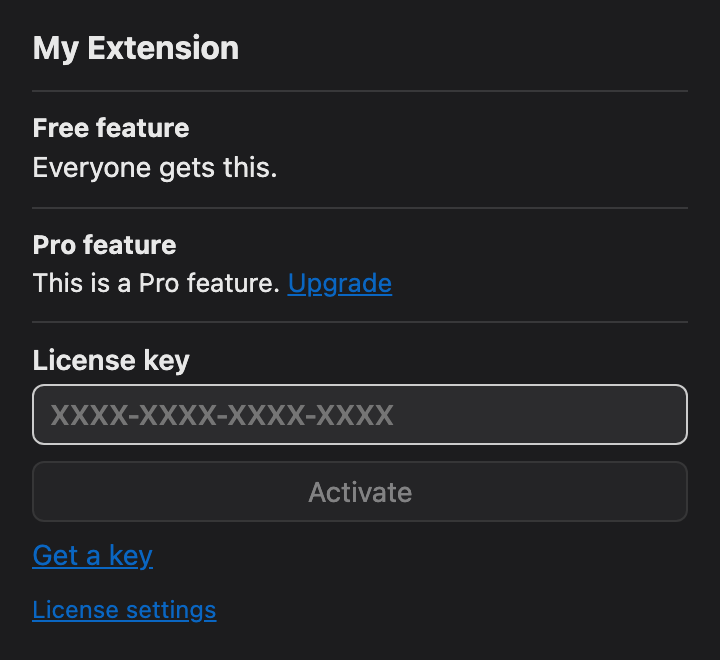
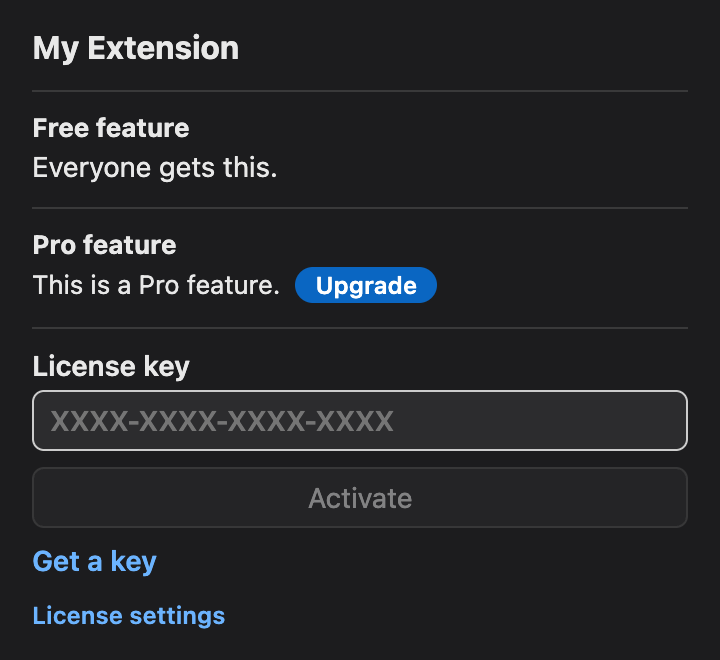
Fixes from review: styled popup links, readable Framer screenshots, full-width pricing, no guide breadcrumb on /thanks/, current license prices in two guides

diff --git a/assets/site.css b/assets/site.css
@@ -131,7 +131,7 @@ code, pre { font-family: "JetBrains Mono", ui-monospace, "SF Mono", Menlo, Conso
 .note { margin-top: 28px; color: var(--muted); max-width: 46em; }
 
 /* Pricing */
-.plans { display: grid; grid-template-columns: 1fr 1fr; gap: 24px; max-width: 880px; }
+.plans { display: grid; grid-template-columns: 1fr 1fr; gap: 24px; }
 .plan { background: var(--surface); border: 1px solid var(--line); border-radius: 18px; padding: 32px; display: flex; flex-direction: column; }
 .plan-pro { border: 2px solid var(--accent); box-shadow: var(--shadow); }
 .plan h3 { font-size: 1.2rem; margin: 0; }

diff --git a/_layouts/default.html b/_layouts/default.html
@@ -40,7 +40,7 @@
 
 <main>
   <article class="article">
-    <p class="crumbs"><a href="/">Home</a> / <a href="/#guides">Guides</a></p>
+    {% if page.url contains '/guides/' %}<p class="crumbs"><a href="/">Home</a> / <a href="/#guides">Guides</a></p>{% endif %}
     {{ content }}
   </article>
 

diff --git a/guides/wordpress-blog-to-framer.md b/guides/wordpress-blog-to-framer.md
@@ -43,9 +43,9 @@ Two catches:
 - *WP Sync* by 19.studio connects to the live site and can sync again later. It handles custom post types and WooCommerce products, with field mapping. It imports images and media. Pages are not imported. It is free.
 - *Sillyweb WP Sync* by Sillyweb connects to your WordPress site and imports posts, pages, custom post types, WooCommerce products, media and custom fields, and can sync again. Its listing calls it free and doesn't mention authors, drafts or redirects.
 - *PostPort* by Luke Sn reads the export file for $39 one-time. Every post arrives as a draft, authors and tags come in as text, and you pick image files from your computer to upload.
-- [*Blog Import*](https://www.framer.com/marketplace/plugins/blog-import-squarespace-wordpress/) (ours) reads the export file or the live site. It brings drafts from the export file, turns authors, categories and tags into linked collections, copies images into Framer, and adds redirects on Framer Pro or higher. It is free for your newest 25 posts; a $29 per-project license for the rest is coming. It doesn't do custom post types or WooCommerce.
+- [*Blog Import*](https://www.framer.com/marketplace/plugins/blog-import-squarespace-wordpress/) (ours) reads the export file or the live site. It brings drafts from the export file, turns authors, categories and tags into linked collections, copies images into Framer, and adds redirects on Framer Pro or higher. It is free for your newest 25 posts; a license for the rest is $29 per project or $59 for any number, paid once. It doesn't do custom post types or WooCommerce.
 
-![Blog Import reading a Squarespace export: 9 posts, 1 draft, 2 authors, 4 categories, 6 tags, with options for redirects and copying images](/guides/img/blog-import-review.jpg)
+![Blog Import reading a live WordPress site: 1112 posts, 15 authors, 10 categories and 20 tags, with options for redirects and copying images](/guides/img/blog-import-review-wp.jpg)
 
 ![The imported blog in Framer CMS: a Journal collection with linked Authors, Categories and Tags collections](/guides/img/blog-import-collections.jpg)
 

diff --git a/guides/squarespace-blog-to-framer.md b/guides/squarespace-blog-to-framer.md
@@ -47,7 +47,7 @@ We found these in real exports, not in Squarespace's documentation:
 **A plugin.** Two on the Framer Marketplace read the Squarespace file directly:
 
 - *Squarespace Import* by Adam Kansky: free for 25 posts, then $49 for one project or $99 unlimited.
-- [*Blog Import*](https://www.framer.com/marketplace/plugins/blog-import-squarespace-wordpress/) (ours): free for your newest 25 posts; a $29 per-project license for the rest is coming. It also reads WordPress export files and live WordPress sites.
+- [*Blog Import*](https://www.framer.com/marketplace/plugins/blog-import-squarespace-wordpress/) (ours): free for your newest 25 posts; a license for the rest is $29 per project or $59 for any number, paid once. It also reads WordPress export files and live WordPress sites.
 
 ![Blog Import reading a Squarespace export: 9 posts, 1 draft, 2 authors, 4 categories, 6 tags, with options for redirects and copying images](/guides/img/blog-import-review.jpg)
 
